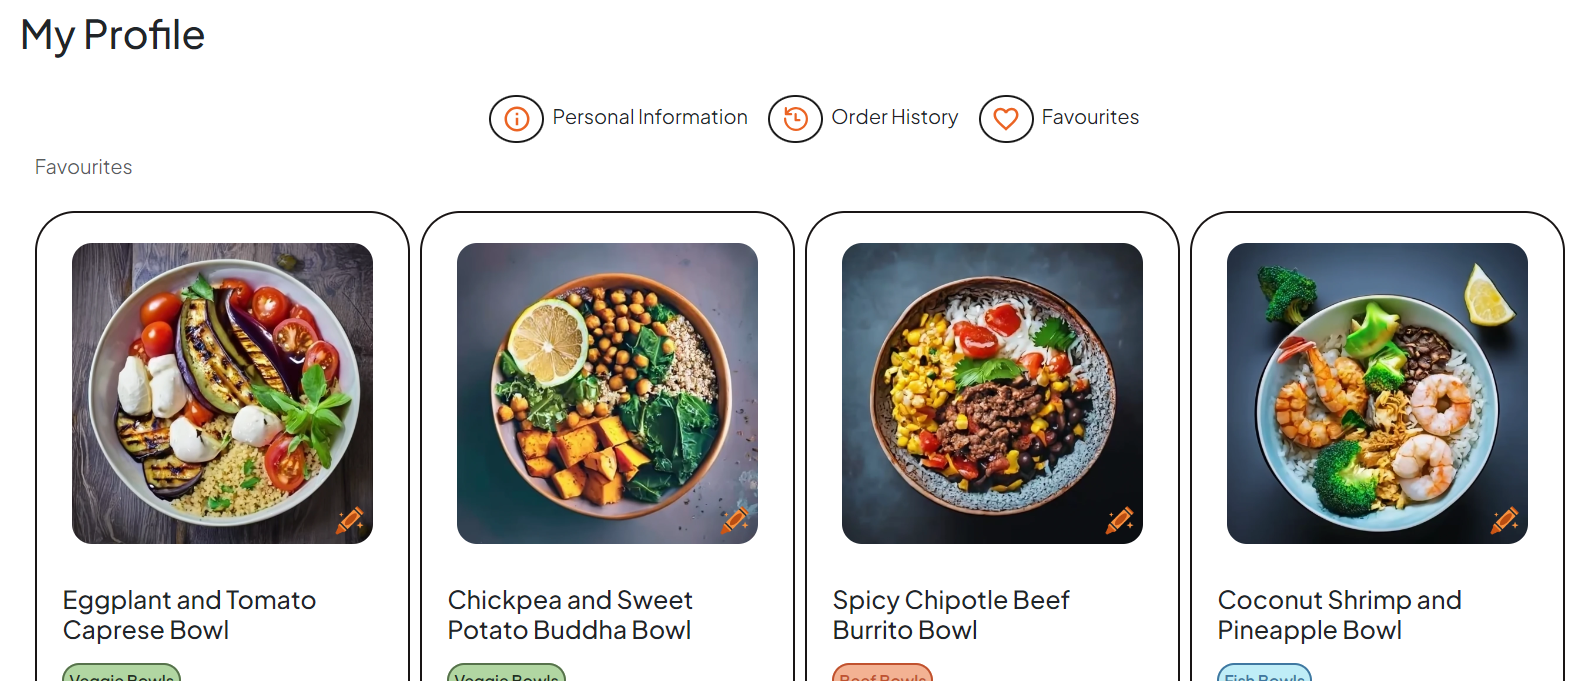
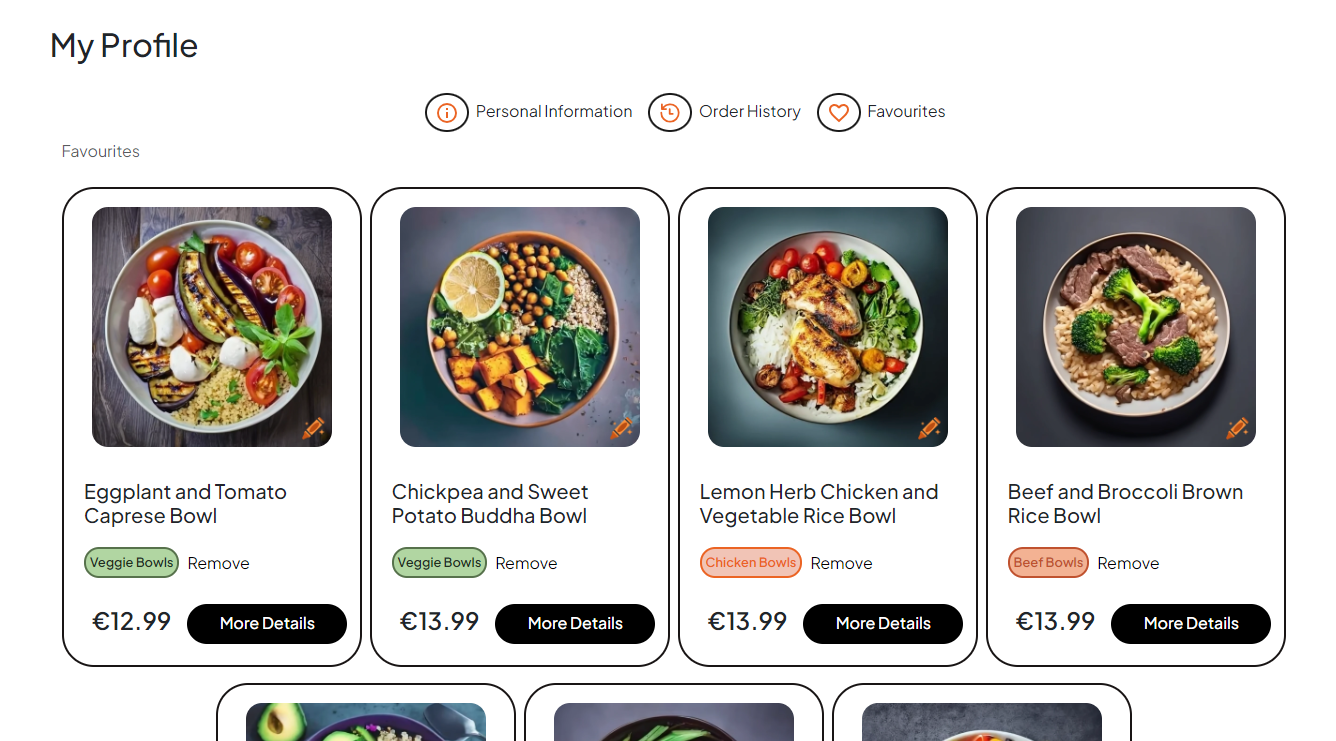
Add Remove from Favourites feature

diff --git a/profiles/templates/profiles/profile.html b/profiles/templates/profiles/profile.html
@@ -92,7 +92,13 @@
                         {% endif %}
                         <div class="card-body p-2">
                             <h5 class="card-title p-2">{{ bowl.name }}</h5>
+                        <div class="d-flex">
                             <a href="{% url 'products' %}?category={{ bowl.category.name }}" class="mt-1 mx-2 p-1 {% if bowl.category|lower == 'chicken' %}chicken-category{% elif bowl.category|lower == 'fish' %}fish-category{% elif bowl.category|lower == 'beef' %}beef-category{% elif bowl.category|lower == 'veggie' %}veggie-category{% else %}default-category{% endif %}" style="font-size: .8rem;">{{ bowl.category }} Bowls</a>
+                            <form method="post" action="{% url 'remove_from_favourites' product_id=bowl.id %}">
+                                {% csrf_token %}
+                                <button type="submit" class="bg-transparent mt-2">Remove</button>
+                            </form>
+                        </div>
                             <div class="price-info d-flex align-items-center">
                                 <p class="card-text p-3 fw-bold mt-2" style="font-size: 1.5rem;">€{{ bowl.price }}</p>
                                 <a href="{% url 'product_detail' bowl.id %}" class="bg-black rounded-5 text-white details-btn">More Details</a>

diff --git a/profiles/views.py b/profiles/views.py
@@ -71,3 +71,17 @@ def add_to_favourites(request, product_id):
     return redirect('profile')
 
 
+@login_required
+def remove_from_favourites(request, product_id):
+    product = get_object_or_404(Product, pk=product_id)
+    favourite_bowls = FavouriteBowls.objects.get(user=request.user)
+
+    if product in favourite_bowls.bowls.all():
+        favourite_bowls.bowls.remove(product)
+        messages.success(request, f"{product.name} removed from your favorites.")
+    else:
+        messages.warning(request, f"{product.name} is not in your favorites.")
+
+    return redirect('profile')
+
+

diff --git a/blissbowl/settings.py b/blissbowl/settings.py
@@ -27,7 +27,7 @@ BASE_DIR = Path(__file__).resolve().parent.parent
 SECRET_KEY = os.environ.get('SECRET_KEY')
 
 # SECURITY WARNING: don't run with debug turned on in production!
-DEBUG = False
+DEBUG = True
 
 ALLOWED_HOSTS = ['blissbowl-375a7f20caf7.herokuapp.com', '127.0.0.1']
 
@@ -57,6 +57,7 @@ INSTALLED_APPS = [
 
     # Other
     'crispy_forms',
+    'django_extensions',
 ]
 
 MIDDLEWARE = [

diff --git a/profiles/urls.py b/profiles/urls.py
@@ -5,5 +5,7 @@ urlpatterns = [
     path('', views.profile, name='profile'),
     path('order_history/<order_number>', views.order_history, name='order_history'),
     path('add_to_favourites/<int:product_id>/', views.add_to_favourites, name='add_to_favourites'),
+    path('remove_from_favourites/<int:product_id>/', views.remove_from_favourites, name='remove_from_favourites'),
+
 ]
 
